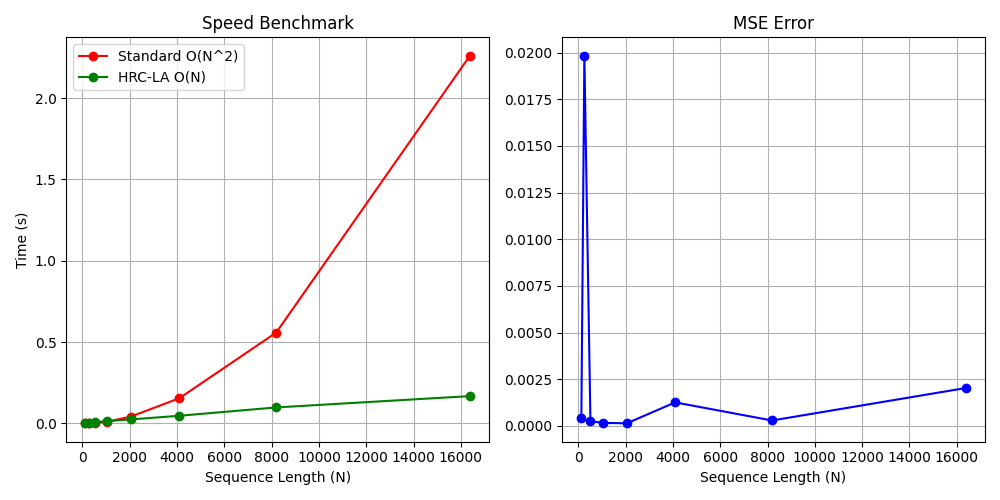
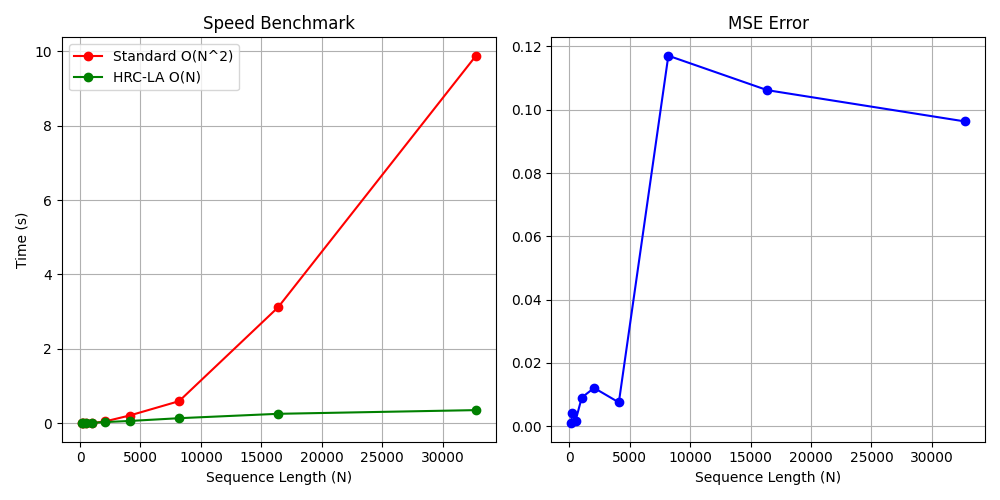
feat: Implement HRC-LA attention with orthogonal random features and introduce a benchmarking script with updated results.

diff --git a/hrc_la/attention.py b/hrc_la/attention.py
@@ -1,5 +1,10 @@
+import logging
+import math
+
 import torch
 import torch.nn as nn
+
+logger = logging.getLogger(__name__)
 
 
 class HRCMultiheadAttention(nn.Module):
@@ -10,19 +15,50 @@ class HRCMultiheadAttention(nn.Module):
         self.m = m_features
         self.head_dim = d_model // num_heads
         self.batch_first = batch_first
-        
+
         assert d_model % num_heads == 0, "d_model must be divisible by num_heads"
-        
+
         self.q_proj = nn.Linear(d_model, d_model)
         self.k_proj = nn.Linear(d_model, d_model)
         self.v_proj = nn.Linear(d_model, d_model)
         self.out_proj = nn.Linear(d_model, d_model)
-        
+
         self._reset_parameters()
-        
-        omega = torch.randn(num_heads, m_features, self.head_dim)
+
+        omega = self._create_orthogonal_matrix(self.num_heads, self.m, self.head_dim)
         self.register_buffer("omega", omega)
+
+    def _create_orthogonal_matrix(self, num_heads, m_features, head_dim):
+        """
+        Creates an orthogonal matrix for the HRC-LA attention mechanism.
         
+        Args:
+            num_heads: Number of attention heads.
+            m_features: Number of features for the complex feature map.
+            head_dim: Dimension of each head.
+        
+        Returns:
+            omega: Orthogonal matrix for the HRC-LA attention mechanism.
+        """
+        if m_features % head_dim != 0:
+            logger.warning(
+                "m_features is not a multiple of head_dim. To most effectively use orthogonal features, m_features ceiling should be a multiple of head_dim."
+            )
+
+        omega_stack_count = math.ceil(m_features / head_dim)
+
+        omegas = torch.zeros(num_heads, m_features, head_dim)
+        for i in range(num_heads):
+            w = torch.zeros(m_features, head_dim)
+            for j in range(omega_stack_count):
+                if j * head_dim >= m_features:
+                    break
+                q, _ = torch.linalg.qr(torch.randn(head_dim, head_dim))
+                w[j * head_dim : min((j + 1) * head_dim, m_features), :] = q[: min(head_dim, m_features - j * head_dim), :]
+            scale = head_dim**0.5
+            omegas[i] = w * scale
+        return omegas
+
     def _reset_parameters(self):
         # Xavier Init (Scaled initialization to prevent variance explosion)
         nn.init.xavier_uniform_(self.q_proj.weight)
@@ -35,81 +71,88 @@ class HRCMultiheadAttention(nn.Module):
         u: (Batch, Heads, Seq, Dim)
         theta: (Batch, Heads, Seq, M)
         """
-        norm_sq = torch.sum(u ** 2, dim=-1, keepdim=True) # (B, H, N, 1)
-        
+        norm_sq = torch.sum(u**2, dim=-1, keepdim=True)  # (B, H, N, 1)
+
         # Kernel Scaling
-        scale = torch.exp(norm_sq / 2.0) / (self.m ** 0.5)
-        
+        scale = torch.exp(norm_sq / 2.0) / (self.m**0.5)
+
         # Euler's Formula
         z = torch.complex(torch.cos(theta), torch.sin(theta))
-        
-        return scale * z # (B, H, N, M)
+
+        return scale * z  # (B, H, N, M)
 
     def forward(self, x):
-
         """
-        Docstring for forward
+        Performs the forward pass of the Hybrid Real-Complex Linear Attention (HRC-LA).
         
-        :param self: Description
-        :param x: Description
-        
-        :return: Description
-        Implements the HRC-LA attention mechanism as described in the paper:
-        HRC-LA(X) = Re(φ_ℂ(Q) · (φ_ℂ(K)ᴴ V)) / Re(φ_ℂ(Q) · (φ_ℂ(K)ᴴ 1_N))
-        
-        where φ_ℂ(·) is the complex feature map.
-        1_N is a vector of ones with length N (sequence length).
-        ᴴ denotes the Hermitian transpose (conjugate transpose).
-        The method processes the input tensor `x`, computes the query, key, and value
-        projections, applies the complex feature map, and performs linear attention
-        using the HRC-LA approach.
+        This method implements the HRC-LA mechanism with Orthogonal Random Features.
+        It projects the input into Query, Key, and Value spaces, applies a complex feature map
+        using orthogonal random matrices to approximate the softmax kernel, and computes
+        linear attention.
+
+        Theory:
+            HRC-LA(X) = Re(φ_ℂ(Q) · (φ_ℂ(K)ᴴ V)) / Re(φ_ℂ(Q) · (φ_ℂ(K)ᴴ 1_N))
+            
+            where φ_ℂ(·) is the complex feature map defined as:
+            φ_ℂ(u) = (exp(‖u‖² / 2) / √m) * exp(i * u * Ωᵀ)
+            
+            - Ω is the orthogonal random matrix.
+            - 1_N is a vector of ones with length N.
+            - ᴴ denotes the Hermitian transpose.
+
+        Args:
+            x (torch.Tensor): Input tensor of shape (Batch, Seq_Len, D_Model) or (Seq_Len, Batch, D_Model)
+                              depending on `batch_first`.
+
+        Returns:
+            torch.Tensor: Output tensor of the same shape as input `x`.
         """
 
         if not self.batch_first:
             x = x.transpose(0, 1)
-            
+
         B, N, C = x.shape
-        
+
         q = self.q_proj(x)
         k = self.k_proj(x)
         v = self.v_proj(x)
-        
+
         q = q.view(B, N, self.num_heads, self.head_dim).transpose(1, 2)
         k = k.view(B, N, self.num_heads, self.head_dim).transpose(1, 2)
         v = v.view(B, N, self.num_heads, self.head_dim).transpose(1, 2)
-        
-        scale_factor = self.head_dim ** 0.25
+
+        scale_factor = self.head_dim**0.25
         q = q / scale_factor
         k = k / scale_factor
-        
+
         # Phase Calculation (Theta)
         theta_q = torch.matmul(q, self.omega.transpose(-1, -2))
         theta_k = torch.matmul(k, self.omega.transpose(-1, -2))
-        
+
         # Complex Feature Map
         phi_q = self.complex_feature_map(q, theta_q)
         phi_k = self.complex_feature_map(k, theta_k)
-        
+
         # Linear Aggregation
         v_complex = v.to(torch.complex64)
-        
+
         # S = K^H * V
         kv = torch.matmul(phi_k.mH, v_complex)
-        
+
         # Numerator
         numerator = torch.matmul(phi_q, kv).real
-        
+
         # Denominator
-        k_sum = phi_k.sum(dim=-2) 
+        k_sum = phi_k.sum(dim=-2)
         denominator = torch.matmul(phi_q, k_sum.unsqueeze(-1)).real
-        
+
         # Division with epsilon to prevent division by zero
         epsilon = 1e-6
         output = numerator / (denominator + epsilon)
-        
+
         # Concatenate Heads
         output = output.transpose(1, 2).contiguous().view(B, N, self.d_model)
-        
+
         # Final Projection
         output = self.out_proj(output)
 

diff --git a/benchmarks/benchmark.py b/benchmarks/benchmark.py
@@ -18,7 +18,7 @@ def run_ultimate_benchmark():
     D_MODEL = 64
     NUM_HEADS = 4
     M_FEATURES = 256
-    SEQ_LENGTHS = [128, 256, 512, 1024, 2048, 4096, 8192, 16384] 
+    SEQ_LENGTHS = [128, 256, 512, 1024, 2048, 4096, 8192, 16384, 32768] 
     
     # Initialize models
     std_model_raw = nn.MultiheadAttention(D_MODEL, NUM_HEADS, batch_first=True).to(device)

diff --git a/README.md b/README.md
@@ -12,6 +12,7 @@ This repository provides a clean and efficient implementation of the HRC-LA mech
 
 - **Linear Complexity**: Scales linearly with sequence length $N$.
 - **Hybrid Real-Complex Mapping**: Utilizes Euler's formula to map real-valued queries and keys into a complex feature space.
+- **Orthogonal Random Features**: Uses orthogonal matrix initialization for random features to stabilize variance and improve approximation quality.
 - **PyTorch Implementation**: Fully compatible with standard PyTorch modules.
 
 ## Benchmark Results
@@ -22,14 +23,15 @@ The following benchmark compares the standard $O(N^2)$ Multihead Attention with 
 
 | Sequence Length (N) | Standard Time (s) | HRC-LA Time (s) | MSE Error |
 |---------------------|-------------------|-----------------|-----------|
-| 128                 | Fail              | 0.0010          | 0.000403  |
-| 256                 | 0.0010            | 0.0045          | 0.019830  |
-| 512                 | 0.0020            | 0.0075          | 0.000251  |
-| 1024                | 0.0095            | 0.0136          | 0.000162  |
-| 2048                | 0.0415            | 0.0240          | 0.000136  |
-| 4096                | 0.1544            | 0.0466          | 0.001259  |
-| 8192                | 0.5579            | 0.0978          | 0.000288  |
-| 16384               | 2.2606            | 0.1675          | 0.002028  |
+| 128                 | 0.0015            | 0.0055          | 0.002383  |
+| 256                 | Fail              | 0.0076          | 0.000740  |
+| 512                 | 0.0025            | 0.0121          | 0.001041  |
+| 1024                | 0.0075            | 0.0249          | 0.007950  |
+| 2048                | 0.0341            | 0.0431          | 0.907808  |
+| 4096                | 0.1460            | 0.1255          | 0.004921  |
+| 8192                | 0.4416            | 0.1693          | 0.002242  |
+| 16384               | 2.3723            | 0.3558          | 0.051956  |
+| 32768               | 10.3643           | 0.8442          | 0.050090  |
 
 ### Visualization
 
